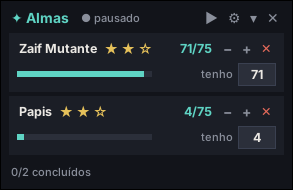
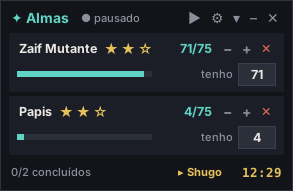
Minimizar, próximo evento com relógio e agenda do servidor SA
- Botão – minimiza para a barra de tarefas e continua contando; só volta
  quando clica no ícone
- Rodapé mostra o próximo evento em dourado com relógio mm:ss, vermelho
  piscando no último minuto
- Agenda SA (horário de Brasília) com base em animoria.com.br: Shugo,
  Invasão Dimensional, Fenda Espaço-Temporal, Vigilante Kairah e Nahma
- README e imagem atualizados; instalador 1.3.0

Claude-Session: https://claude.ai/code/session_01XDJseSGxjayXx38GVMzKic

diff --git a/contador_almas.py b/contador_almas.py
@@ -50,7 +50,19 @@ PADROES_PADRAO = [
 
 CONFIG_PADRAO = {
     "meta": 105,
-    "tiers": [5, 25, 75],      # almas para cada estrela (somam a meta: 5+25+75=105)
+    "tiers": [5, 25, 75],
+    # proximo evento do jogo, no horario de Brasilia do servidor SA
+    # (agenda de referencia: https://www.animoria.com.br/#agenda).
+    # "horas": null = toda hora. "dias": 0=segunda ... 6=domingo (opcional).
+    "eventos": [
+        {"nome": "Shugo", "minuto": 0, "horas": None, "duracao": 10},
+        {"nome": "Invas\u00e3o", "minuto": 30, "horas": None, "duracao": 3},
+        {"nome": "Fenda", "minuto": 0,
+         "horas": [2, 5, 8, 11, 14, 17, 20, 23], "duracao": 10},
+        {"nome": "Kairah", "minuto": 0,
+         "horas": [1, 4, 7, 10, 13, 16, 19, 22], "duracao": 30},
+        {"nome": "Nahma", "minuto": 0, "horas": [21], "dias": [4, 6], "duracao": 30},
+    ],      # almas para cada estrela (somam a meta: 5+25+75=105)
     "regiao": None,            # {"left","top","width","height"} em pixels reais
     "intervalo": 0.3,          # segundos entre capturas
     "motor_ocr": "auto",       # auto | windows | tesseract
@@ -94,6 +106,67 @@ def estrelas(qtd, tiers):
         else:
             return feitas, acum - qtd, len(tiers)
     return feitas, 0, len(tiers)
+
+
+def evento_info(eventos, agora=None):
+    """Proximo evento da lista (horario local): (nomes, inicio, fim, em_andamento)
+    ou None. Se dois comecam na mesma hora, junta os nomes."""
+    import datetime as dt
+    agora = agora or dt.datetime.now()
+    melhor = None  # [inicio, [nomes], andando, fim]
+    for ev in eventos or []:
+        try:
+            minuto = int(ev.get("minuto", 0))
+            horas = ev.get("horas")
+            dias = ev.get("dias")
+            dur = int(ev.get("duracao", 0))
+            nome = str(ev.get("nome", "Evento"))
+        except Exception:
+            continue
+        base = agora.replace(second=0, microsecond=0)
+        for passo in range(-dur - 1, 60 * 24 * 8):
+            t = base + dt.timedelta(minutes=passo)
+            if t.minute != minuto:
+                continue
+            if horas is not None and t.hour not in horas:
+                continue
+            if dias is not None and t.weekday() not in dias:
+                continue
+            fim = t + dt.timedelta(minutes=max(dur, 1))
+            if fim <= agora:
+                continue
+            andando = t <= agora < fim
+            if melhor is None or (andando and not melhor[2]) or \
+                    (andando == melhor[2] and t < melhor[0]):
+                melhor = [t, [nome], andando, fim]
+            elif t == melhor[0] and andando == melhor[2] and nome not in melhor[1]:
+                melhor[1].append(nome)
+                melhor[3] = max(melhor[3], fim)
+            break
+    if not melhor:
+        return None
+    t, nomes, andando, fim = melhor
+    return " + ".join(nomes), t, fim, andando
+
+
+def formatar_relogio(segundos):
+    segundos = max(0, int(segundos))
+    h, resto = divmod(segundos, 3600)
+    m, s_ = divmod(resto, 60)
+    return f"{h}:{m:02d}:{s_:02d}" if h else f"{m:02d}:{s_:02d}"
+
+
+def proximo_evento(eventos, agora=None):
+    """Texto curto do proximo evento (usado nos testes)."""
+    import datetime as dt
+    agora = agora or dt.datetime.now()
+    info = evento_info(eventos, agora)
+    if not info:
+        return "", False
+    nomes, t, fim, andando = info
+    if andando:
+        return f"\u25cf {nomes} agora", True
+    return f"\u25b8 {nomes} {formatar_relogio((t - agora).total_seconds())}", False
 
 
 def tier_atual(qtd, tiers):
@@ -140,8 +213,10 @@ def carregar_config():
         # leitura mais rapida: escala 2 le igual e custa menos
         salvo.pop("escala_ocr", None)
         salvo.pop("intervalo", None)
+    if salvo.get("versao_cfg", 0) < 5:
+        salvo.pop("eventos", None)  # agenda nova (Kairah e Nahma)
     cfg.update(salvo)
-    cfg["versao_cfg"] = 4
+    cfg["versao_cfg"] = 5
     # garante que padroes novos de versoes novas entrem, mantendo os do usuario
     salvos = list(cfg.get("padroes") or [])
     cfg["padroes"] = [p for p in PADROES_PADRAO if p not in salvos] + salvos
@@ -1277,6 +1352,7 @@ def main():
             self.root.after(300, lambda: self.esconder_da_captura(self.root))
             self.root.after(200, self.virar_janela_normal)
             self.root.after(100, self.atualizar_areas_proprias)
+            self.root.after(500, self.atualizar_evento)
 
         # ---------------- util ----------------
         def esconder_da_captura(self, janela):
@@ -1376,11 +1452,57 @@ def main():
 
         def reforcar_topo(self):
             try:
-                self.root.attributes("-topmost", True)
-                self.root.lift()
+                # minimizado fica minimizado: nao traz de volta para cima
+                if not getattr(self, "minimizado", False) and self.root.state() != "iconic":
+                    self.root.attributes("-topmost", True)
+                    self.root.lift()
             except Exception:
                 pass
             self.root.after(3000, self.reforcar_topo)
+
+        def minimizar(self):
+            """Manda o overlay para a barra de tarefas. Ele continua contando e so
+            volta quando voce clica nele na barra de tarefas."""
+            if getattr(self, "minimizado", False):
+                return
+            self.minimizado = True
+            self.cfg["posicao"] = [self.root.winfo_x(), self.root.winfo_y()]
+            self.salvar_cfg()
+            # janela sem borda nao pode ser minimizada no Windows: tira a
+            # "falta de borda" so enquanto estiver minimizada
+            r = self.root
+            r.attributes("-topmost", False)
+            r.withdraw()
+            r.overrideredirect(False)
+            r.update_idletasks()
+            r.deiconify()
+
+            def baixar():
+                r.iconify()
+                # so comeca a vigiar a volta depois que ja minimizou
+                r.after(300, lambda: r.bind("<Map>", self._ao_restaurar))
+            r.after(60, baixar)
+
+        def _ao_restaurar(self, e=None):
+            if not getattr(self, "minimizado", False) or e is None or e.widget is not self.root:
+                return
+            if self.root.state() == "iconic":
+                return
+            self.minimizado = False
+            self.root.unbind("<Map>")
+            self.root.after(10, self._voltar_ao_normal)
+
+        def _voltar_ao_normal(self):
+            self.root.withdraw()
+            self.root.overrideredirect(True)
+            self.root.update_idletasks()
+            self.root.deiconify()
+            x, y = self.cfg.get("posicao", [40, 200])
+            self.root.geometry(f"+{int(x)}+{int(y)}")
+            self.root.attributes("-topmost", True)
+            self.root.lift()
+            self.esconder_da_captura(self.root)
+            self.virar_janela_normal()
 
         def dialogo(self, fn, *a, **kw):
             self.root.attributes("-topmost", False)
@@ -1410,6 +1532,7 @@ def main():
             self.lbl_status.pack(side="left", padx=(self.px(8), 0))
 
             self.botao(h, "\u2715", lambda e: self.sair()).pack(side="right")
+            self.botao(h, "\u2013", lambda e: self.minimizar()).pack(side="right")
             self.b_recolher = self.botao(h, "\u25be", lambda e: self.alternar_recolher())
             self.b_recolher.pack(side="right")
             self.botao(h, "\u2699", self.menu_principal).pack(side="right")
@@ -1481,7 +1604,8 @@ def main():
             visiveis, ocultos = lista[:limite], max(0, len(lista) - limite)
 
             rodape = ""
-            if todos and not self.cfg.get("recolhido"):
+            mostra_rodape = not self.cfg.get("recolhido")
+            if todos and mostra_rodape:
                 rodape = f"{len(concl)}/{len(todos)} conclu\u00eddos"
                 if ocultos:
                     rodape += f"  \u00b7  +{ocultos} ocultos"
@@ -1492,7 +1616,7 @@ def main():
                          if not self.cfg.get("regiao") else
                          "Chat encontrado. Aguardando a primeira alma\u2026")
 
-            estrutura = (tuple(id(m) for m in visiveis), bool(rodape), vazio,
+            estrutura = (tuple(id(m) for m in visiveis), mostra_rodape, vazio,
                          bool(self.cfg.get("recolhido")))
             if estrutura == getattr(self, "_estrutura", None):
                 # so atualiza os numeros (sem apagar nada)
@@ -1500,7 +1624,7 @@ def main():
                     w = self._ui.get(id(m))
                     if w:
                         self._atualizar_linha(m, meta, w)
-                if rodape and getattr(self, "_lbl_rodape", None):
+                if getattr(self, "_lbl_rodape", None) and self._lbl_rodape.cget("text") != rodape:
                     self._lbl_rodape.configure(text=rodape)
                 return
 
@@ -1520,12 +1644,57 @@ def main():
                          justify="left").pack(anchor="w", pady=self.px(4))
             for m in visiveis:
                 self._ui[id(m)] = self._linha(m, meta)
-            if rodape:
+            self._lbl_evento = None
+            if mostra_rodape:
                 rod = tk.Frame(self.corpo, bg=COR["fundo"])
                 rod.pack(fill="x", pady=(self.px(4), 0))
                 self._lbl_rodape = tk.Label(rod, text=rodape, fg=COR["suave"],
                                             bg=COR["fundo"], font=self.f_peq)
                 self._lbl_rodape.pack(side="left")
+                self._lbl_relogio = tk.Label(rod, text="", fg=COR["ouro"], bg=COR["fundo"],
+                                             font=("Consolas", 9, "bold"), width=7, anchor="e")
+                self._lbl_relogio.pack(side="right")
+                self._lbl_evento = tk.Label(rod, text="", fg=COR["ouro"],
+                                            bg=COR["fundo"], font=("Segoe UI", 8, "bold"))
+                self._lbl_evento.pack(side="right")
+                self._ev_cache = None
+                self.atualizar_evento(agendar=False)
+
+        def atualizar_evento(self, agendar=True):
+            """Relogio do proximo evento: mm:ss, a cada meio segundo. No ultimo
+            minuto fica vermelho e piscando. So mexe nesses dois textos."""
+            import datetime as dt
+            lbl, rel = getattr(self, "_lbl_evento", None), getattr(self, "_lbl_relogio", None)
+            if lbl is not None and rel is not None:
+                try:
+                    agora = dt.datetime.now()
+                    info = getattr(self, "_ev_cache", None)
+                    # so recalcula a agenda quando o evento comeca/termina
+                    if info is None or agora >= (info[2] if info[3] else info[1]):
+                        info = evento_info(self.cfg.get("eventos", []), agora)
+                        self._ev_cache = info
+                    if info:
+                        nomes, t, fim_ev, andando = info
+                        if andando:
+                            txt_n, txt_r, cor = f"\u25cf {nomes}", "agora", COR["ouro"]
+                        else:
+                            falta = (t - agora).total_seconds()
+                            txt_n, txt_r = f"\u25b8 {nomes}", formatar_relogio(falta)
+                            cor = COR["ouro"]
+                            if falta <= 60:
+                                # ultimo minuto: vermelho piscando (2x por segundo)
+                                aceso = int(agora.timestamp() * 2) % 2 == 0
+                                cor = COR["erro"] if aceso else COR["fundo"]
+                        if lbl.cget("text") != txt_n:
+                            lbl.configure(text=txt_n)
+                        if rel.cget("text") != txt_r:
+                            rel.configure(text=txt_r)
+                        if rel.cget("fg") != cor:
+                            rel.configure(fg=cor)
+                except Exception:
+                    pass
+            if agendar:
+                self.root.after(500, self.atualizar_evento)
 
         def _atualizar_linha(self, m, meta, w):
             feitas, falta_tier, n_tiers = estrelas(m["qtd"], self.cfg.get("tiers", [5, 25, 75]))
@@ -2086,7 +2255,8 @@ def main():
 
         def sair(self):
             self.leitor.parar.set()
-            self.cfg["posicao"] = [self.root.winfo_x(), self.root.winfo_y()]
+            if not getattr(self, "minimizado", False):
+                self.cfg["posicao"] = [self.root.winfo_x(), self.root.winfo_y()]
             self.salvar_cfg()
             self.prog.salvar()
             self.root.destroy()
@@ -2095,7 +2265,7 @@ def main():
             self.root.mainloop()
 
     try:
-        registrar("INICIO versao 1.0.0")
+        registrar("INICIO versao 1.3.0 (relogio do evento)")
         App().rodar()
     except Exception:
         import traceback

diff --git a/README.md b/README.md
@@ -46,6 +46,15 @@ Em cada monstro:
 
 Exemplo: no jogo você está na **3ª estrela** e tem **70**. Clique na 3ª estrela, digite **70**, Enter → `70/75`.
 
+No rodapé aparece o **próximo evento** do jogo em dourado, com relógio em minutos:segundos
+(fica **vermelho piscando** no último minuto). Agenda do servidor SA, horário de Brasília,
+com base em <https://www.animoria.com.br/#agenda>: Shugo (toda hora :00), Invasão Dimensional (:30),
+Fenda Espaço-Temporal (02h, 05h… 23h), Vigilante Kairah (01h, 04h… 22h) e Senhor Guardião Nahma
+(21h, sexta e domingo). Dá para mudar a lista em `config.json` → `eventos`.
+
+Botões do topo: ⏸ pausar · ⚙ menu · ▾ recolher · **–** minimizar (vai para a barra de tarefas e
+continua contando; clique no ícone dele para voltar) · ✕ fechar.
+
 Menu ⚙: detectar o chat de novo, escolher a área na mão, opacidade, mostrar concluídos, aparecer ou não na stream.
 
 ## OBS
